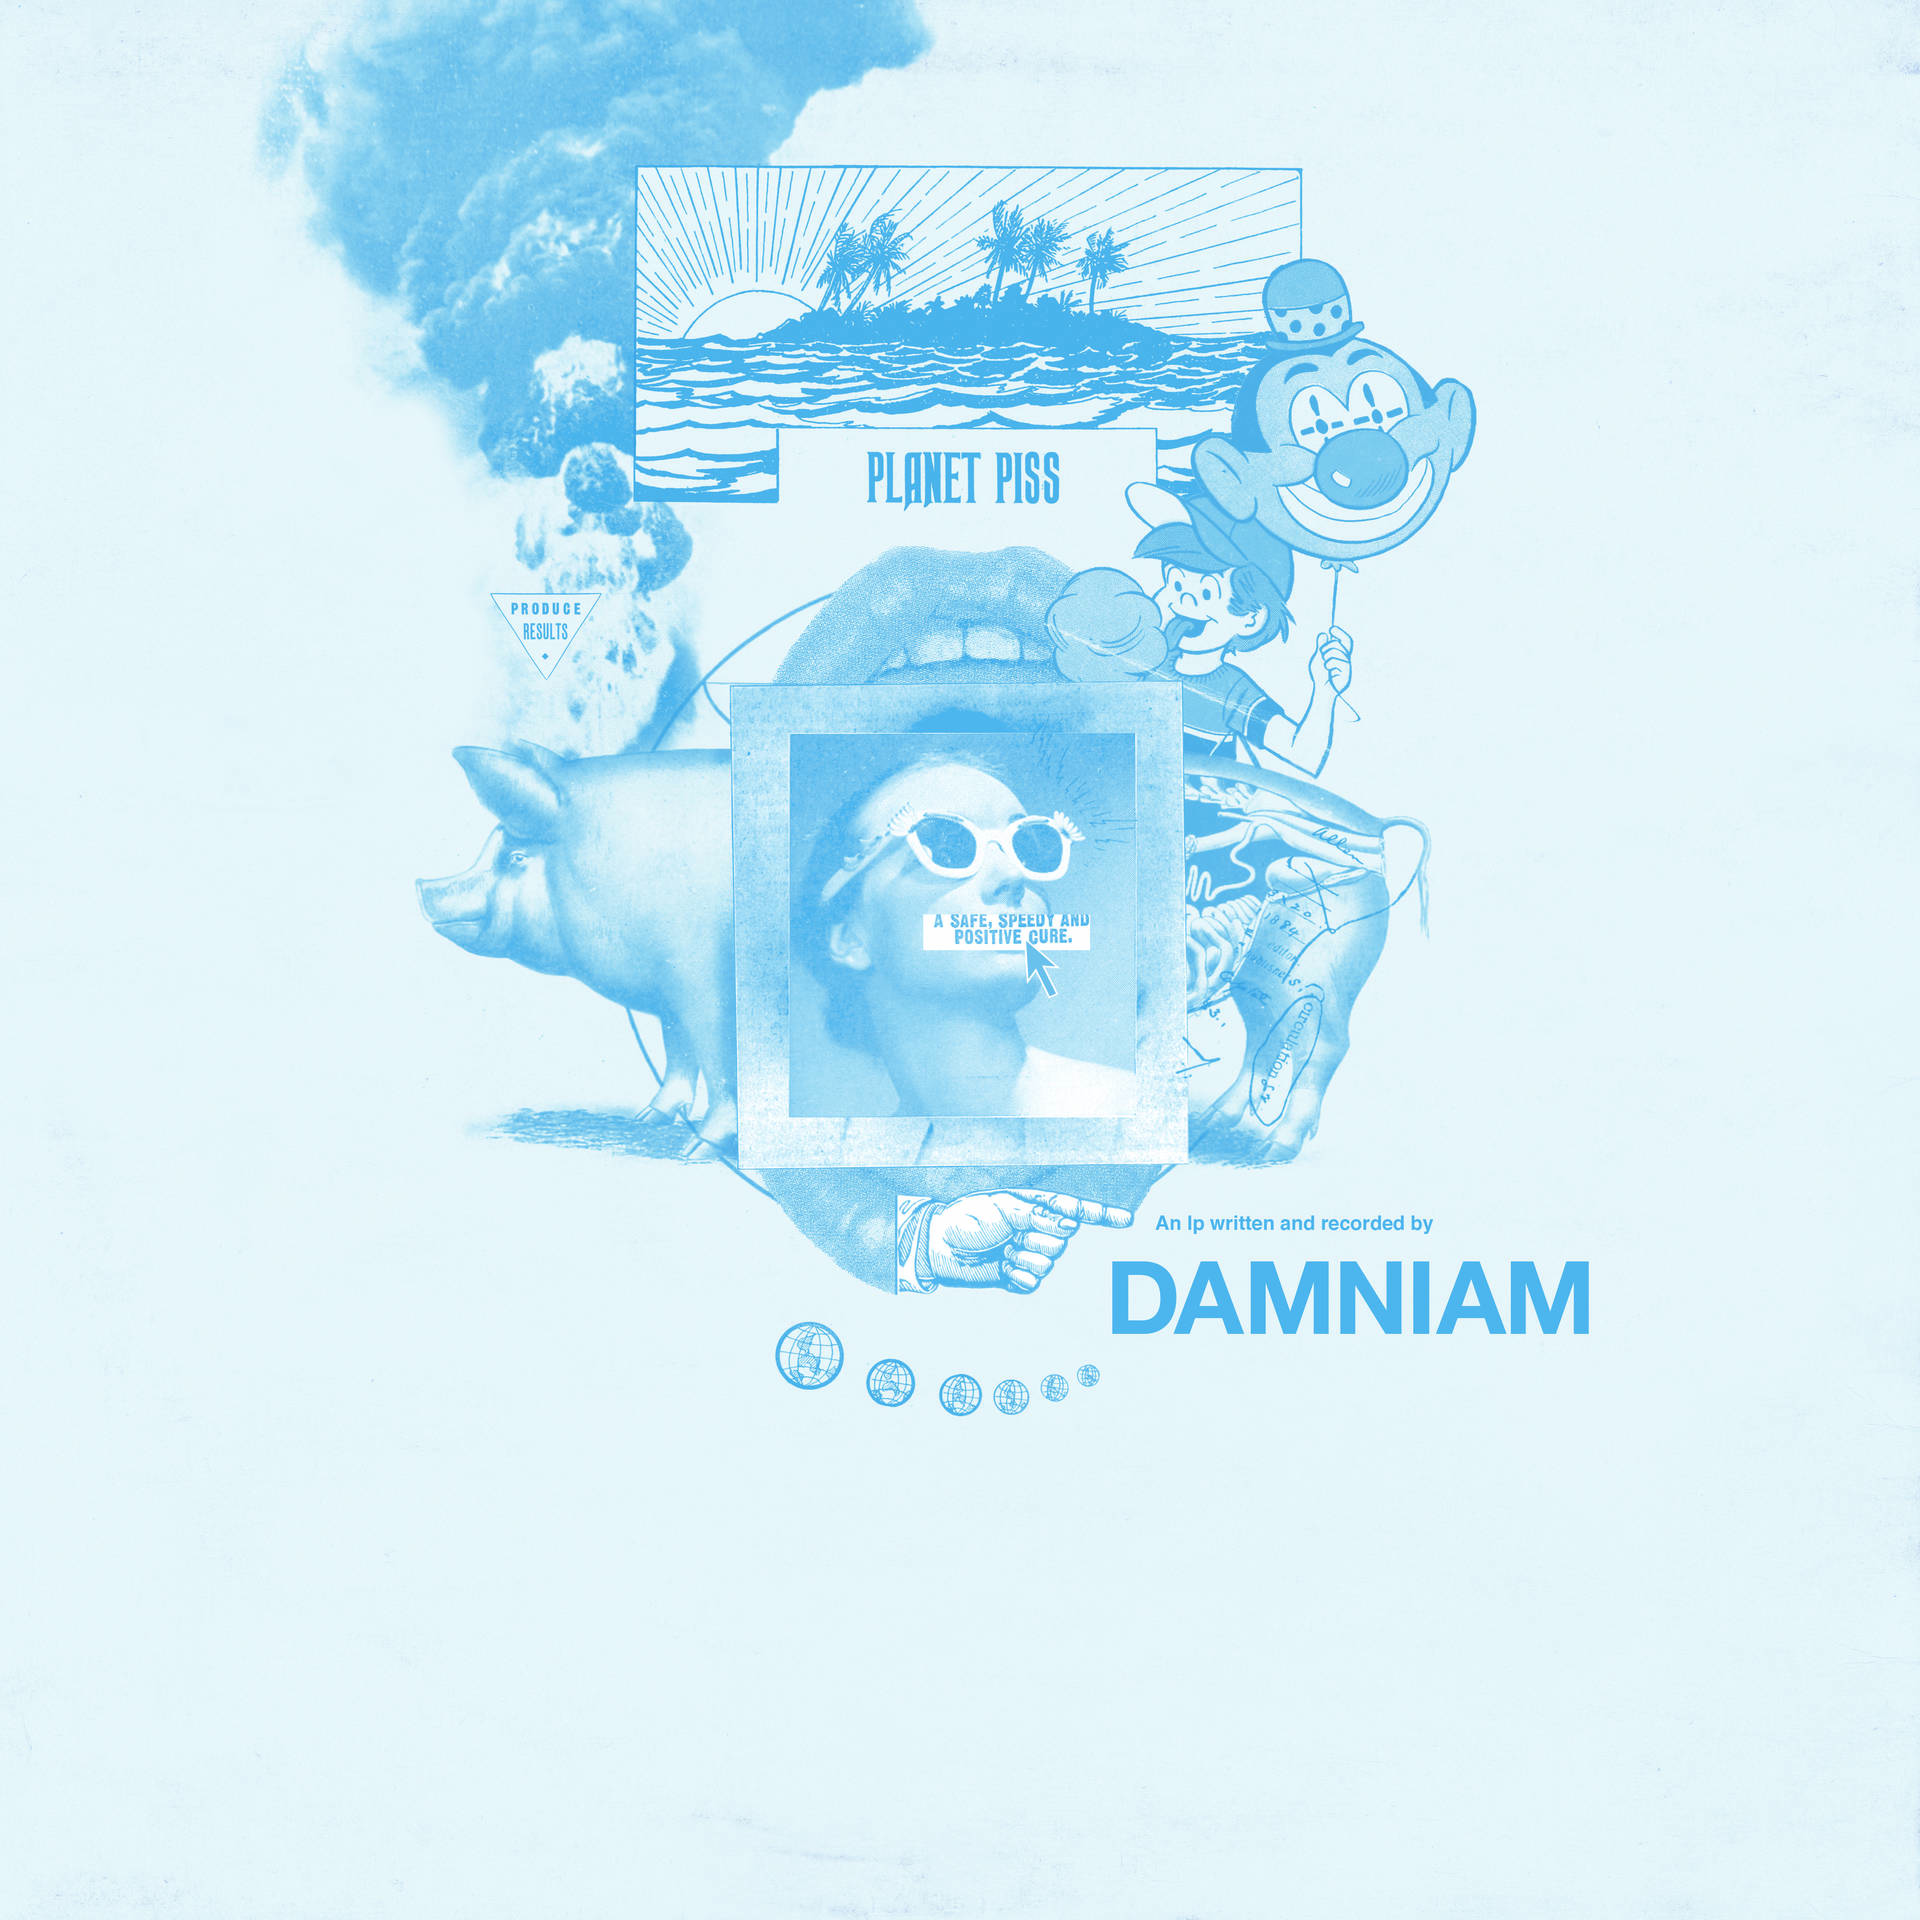
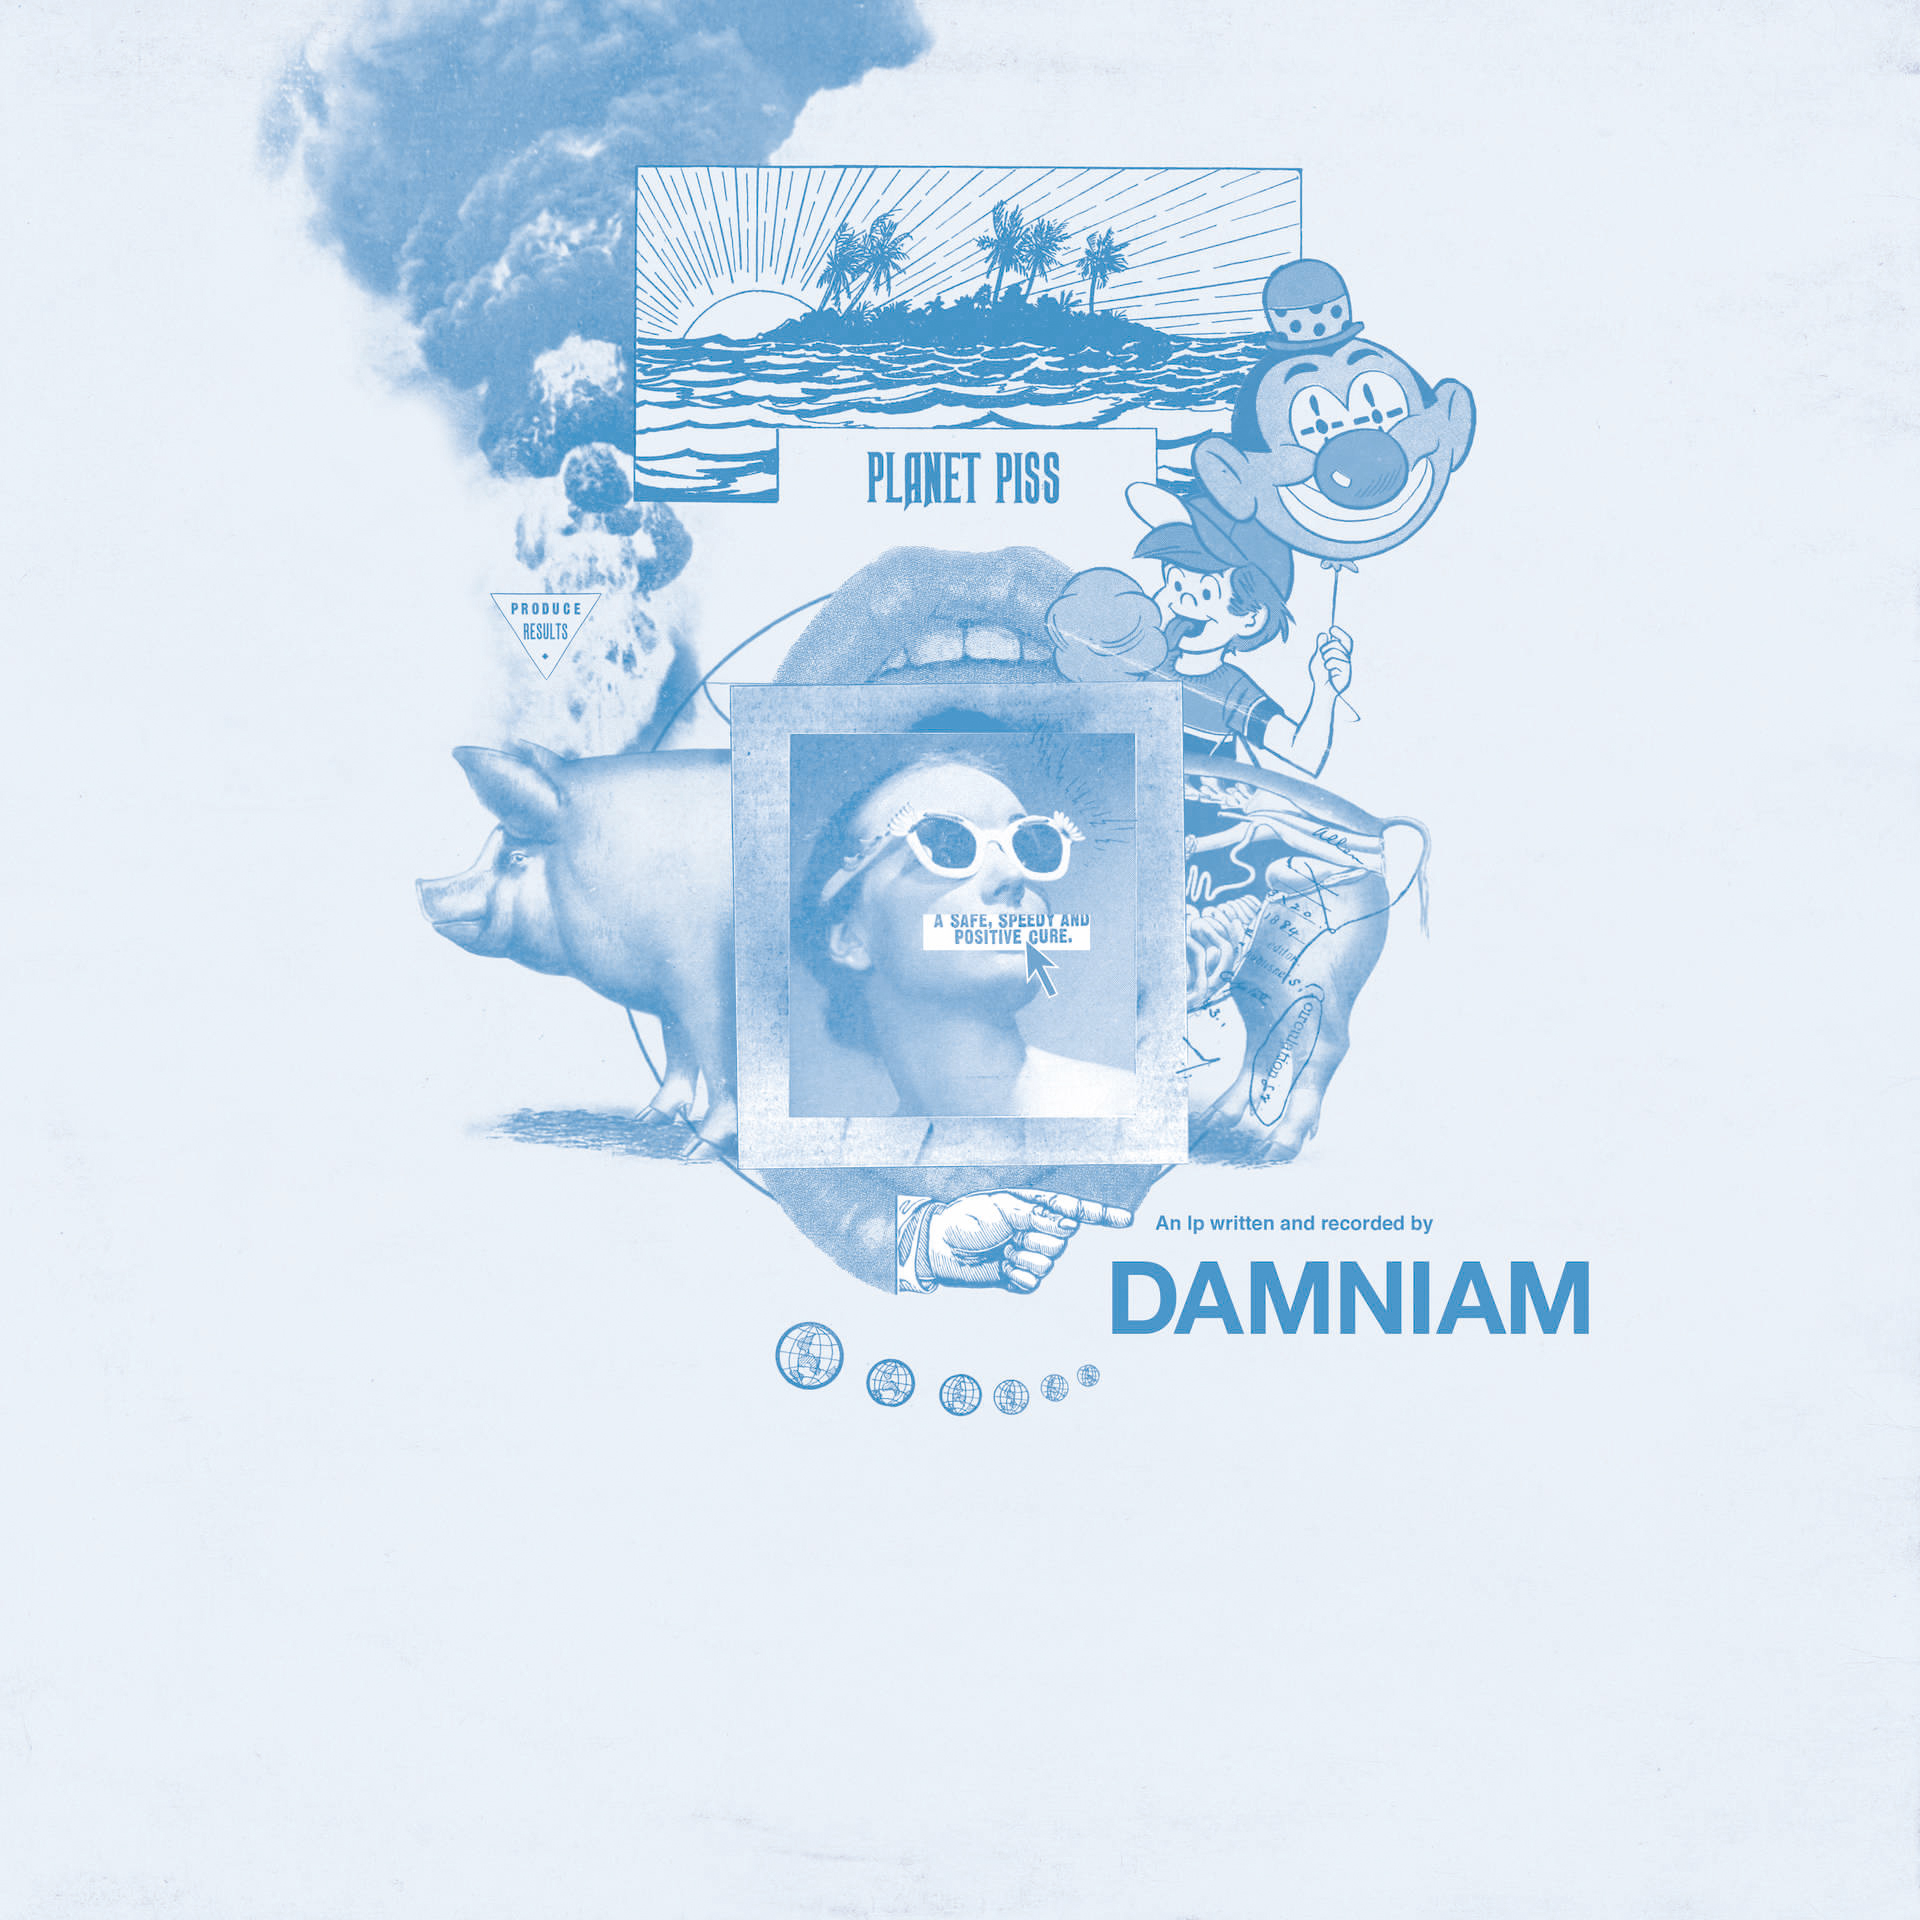
color correction

diff --git a/index.html b/index.html
@@ -56,7 +56,7 @@
                     <hr>
                     <h4>DAMNIAM</h4>
                     <hr>
-                    <img src="img/band.jpg">
+                    <img src="img/band.jpg" alt="DAMNIAM">
                     <hr>
                 </div>
 
@@ -78,7 +78,7 @@
                     <p>
                         <strong>Booking</strong><br>
                         <a href="http://muttis-booking.de/" target="_blank">
-                            <img src="img/mutti.jpg" style="float: right; width: 20%; margin-left: 0.5rem;">
+                            <img src="img/mutti.jpg" alt="muttis booking" style="float: right; width: 20%; margin-left: 0.5rem;">
                         </a>
                         katja@muttis-booking.de<br>
                         <a href="http://muttis-booking.de/" target="_blank" style="color: black;">
@@ -139,7 +139,7 @@
                     </p>
                     <hr>
                     <a href="https://uberspace.de" target="_blank" style="color: black;">
-                        <img src="img/badge-uberspace.png" style="width: 100%; max-width: 10rem;">
+                        <img src="img/badge-uberspace.png" alt="uberspace logo" style="width: 100%; max-width: 10rem;">
                     </a>
                     <hr>
                 </div>
@@ -159,21 +159,21 @@
                             <strong>
                                 Haftung für Inhalte
                             </strong>
-                            </ br>
+                            <br>
                             Als Diensteanbieter sind wir gemäß § 7 Abs.1 TMG für eigene Inhalte auf diesen Seiten nach den allgemeinen Gesetzen verantwortlich. Nach §§ 8 bis 10 TMG sind wir als Diensteanbieter jedoch nicht verpflichtet, übermittelte oder gespeicherte fremde Informationen zu überwachen oder nach Umständen zu forschen, die auf eine rechtswidrige Tätigkeit hinweisen. Verpflichtungen zur Entfernung oder Sperrung der Nutzung von Informationen nach den allgemeinen Gesetzen bleiben hiervon unberührt. Eine diesbezügliche Haftung ist jedoch erst ab dem Zeitpunkt der Kenntnis einer konkreten Rechtsverletzung möglich. Bei Bekanntwerden von entsprechenden Rechtsverletzungen werden wir diese Inhalte umgehend entfernen.
                         </p>
                         <p>
                             <strong>
                                 Haftung für Links
                             </strong>
-                            </ br>
+                            <br>
                             Unser Angebot enthält Links zu externen Webseiten Dritter, auf deren Inhalte wir keinen Einfluss haben. Deshalb können wir für diese fremden Inhalte auch keine Gewähr übernehmen. Für die Inhalte der verlinkten Seiten ist stets der jeweilige Anbieter oder Betreiber der Seiten verantwortlich. Die verlinkten Seiten wurden zum Zeitpunkt der Verlinkung auf mögliche Rechtsverstöße überprüft. Rechtswidrige Inhalte waren zum Zeitpunkt der Verlinkung nicht erkennbar. Eine permanente inhaltliche Kontrolle der verlinkten Seiten ist jedoch ohne konkrete Anhaltspunkte einer Rechtsverletzung nicht zumutbar. Bei Bekanntwerden von Rechtsverletzungen werden wir derartige Links umgehend entfernen.
                         </p>
                         <p>
                             <strong>
                                 Urheberrecht
                             </strong>
-                            </ br>
+                            <br>
                             Die durch die Seitenbetreiber erstellten Inhalte und Werke auf diesen Seiten unterliegen dem deutschen Urheberrecht. Die Vervielfältigung, Bearbeitung, Verbreitung und jede Art der Verwertung außerhalb der Grenzen des Urheberrechtes bedürfen der schriftlichen Zustimmung des jeweiligen Autors bzw. Erstellers. Downloads und Kopien dieser Seite sind nur für den privaten, nicht kommerziellen Gebrauch gestattet. Soweit die Inhalte auf dieser Seite nicht vom Betreiber erstellt wurden, werden die Urheberrechte Dritter beachtet. Insbesondere werden Inhalte Dritter als solche gekennzeichnet. Sollten Sie trotzdem auf eine Urheberrechtsverletzung aufmerksam werden, bitten wir um einen entsprechenden Hinweis. Bei Bekanntwerden von Rechtsverletzungen werden wir derartige Inhalte umgehend entfernen.
                         </p>
                     <hr>
@@ -181,5 +181,5 @@
             </div>
         </div><!-- layout -->
         <script async defer src="js/damniam.js"></script>
-    <body>
+    </body>
 </html>

diff --git a/css/damniam.css b/css/damniam.css
@@ -147,13 +147,13 @@ textarea {
   height: 1rem;
   border-radius: 50% 50% 50% 0;
   transform: rotate(-45deg);
-  background: #4bb6ed; }
+  background: #4a97cb; }
   .location:after {
     content: '';
     width: 0.5rem;
     height: 0.5rem;
     margin: 0.25rem 0 0 0.25rem;
-    background: #ebf0f6;
+    background: #eaf1f9;
     position: absolute;
     border-radius: 50%; }
 
@@ -168,20 +168,20 @@ textarea {
   width: 100%;
   height: 3rem;
   position: fixed;
-  color: #4bb6ed;
-  background: #ebf0f6;
-  box-shadow: 0 0 1rem 0rem #4bb6ed; }
+  color: #4a97cb;
+  background: #eaf1f9;
+  box-shadow: 0 0 1rem 0rem #4a97cb; }
   .head .menu_button {
     font-size: calc(3rem *2/3);
     width: calc(5* 3rem);
     line-height: 3rem;
-    color: #4bb6ed;
+    color: #4a97cb;
     padding-left: 1rem; }
     .head .menu_button:hover {
       cursor: pointer; }
     .head .menu_button:active {
-      background: #4bb6ed;
-      color: #ebf0f6;
+      background: #4a97cb;
+      color: #eaf1f9;
       cursor: pointer; }
 
 .menu {
@@ -190,19 +190,19 @@ textarea {
   max-height: 0;
   overflow-y: auto;
   overflow-x: hidden;
-  background: #ebf0f6;
+  background: #eaf1f9;
   position: fixed;
   top: 3rem;
   transition: max-height 1s ease; }
   .menu a {
-    color: #4bb6ed;
+    color: #4a97cb;
     display: block;
     text-decoration: none;
     padding: 0.6rem 6rem 0.6rem 3rem;
     font-size: calc(3rem / 2); }
     .menu a:active, .menu a:hover {
-      background: #4bb6ed;
-      color: #ebf0f6;
+      background: #4a97cb;
+      color: #eaf1f9;
       cursor: pointer; }
 
 .bg-img {
@@ -226,7 +226,7 @@ textarea {
 .card {
   float: left;
   padding: 1rem;
-  background: rgba(235, 240, 246, 0.77);
+  background: rgba(234, 241, 249, 0.77);
   margin: 1rem;
   border-radius: 0.1rem;
   overflow: hidden; }
@@ -240,15 +240,15 @@ textarea {
   .card .button {
     float: right;
     border: 0;
-    background: #4bb6ed;
-    color: #ebf0f6;
+    background: #4a97cb;
+    color: #eaf1f9;
     padding: 0.5rem 1rem;
     border-radius: 0.1rem;
     text-decoration: none;
     box-shadow: 0 2px 2px 0 rgba(0, 0, 0, 0.14), 0 3px 1px -2px rgba(0, 0, 0, 0.2), 0 1px 5px 0 rgba(0, 0, 0, 0.12); }
   .card hr {
     border: 0;
-    background: #4bb6ed;
+    background: #4a97cb;
     width: 100%;
     height: 1.5rem; }
   .card h4 {

diff --git a/css/damniam.scss b/css/damniam.scss
@@ -7,13 +7,13 @@ $max_width_phone: 35rem;
 // #cards
 $card_margin: 1rem;
 $card_padding: 1rem;
-$card_background: rgba(235,240,246,0.77);
+$card_background: rgba(234,241,249,0.77);
 $card_border_radius: 0.1rem;
 // #pics
 $pic_shadow: 0.1rem 0.1rem 0.5rem 0.1rem rgba(0, 0, 0, .2);
 // #colors
-$accent_color: rgb(75,182,237);
-$complement_color: rgb(235, 240, 246);
+$accent_color: rgb(74,151,203);
+$complement_color: rgb(234, 241, 249);
 $font_color: rgb(50,50,50);
 // #head
 $head_height: 3rem;
